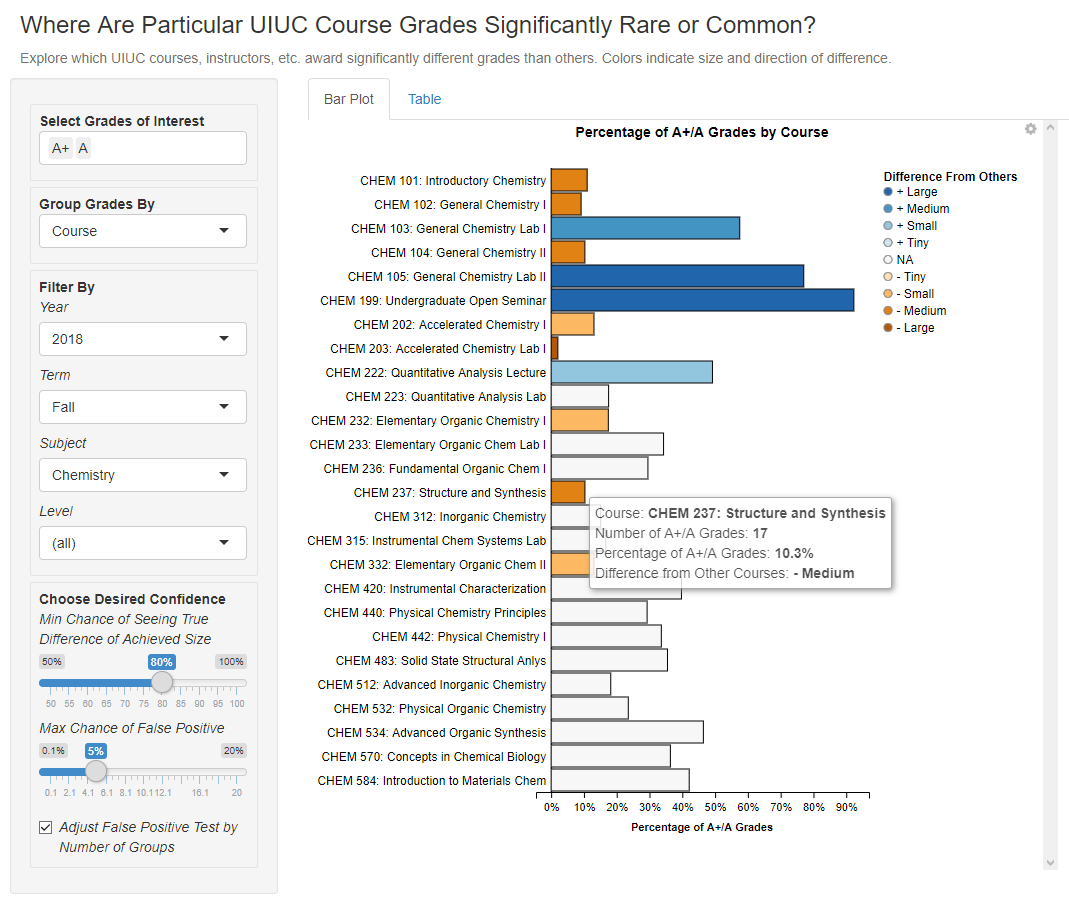
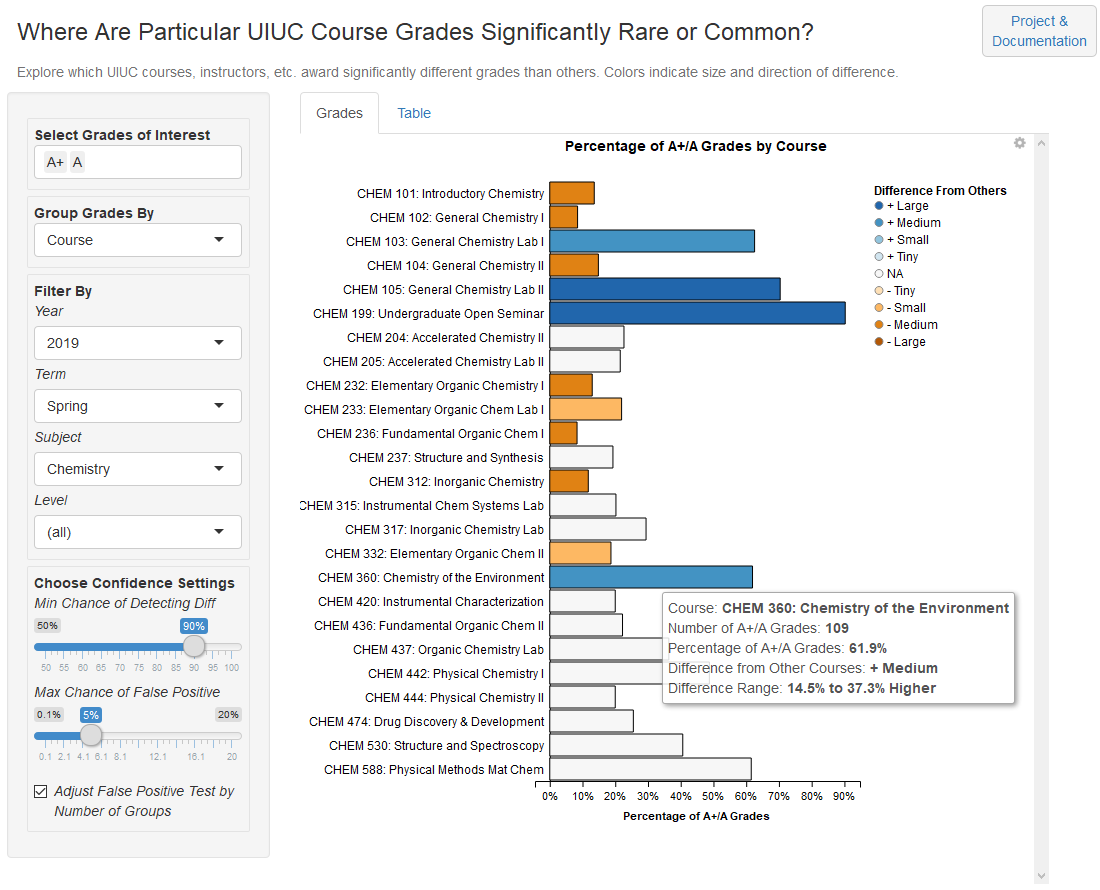
Finishing project documentation.

diff --git a/README.md b/README.md
@@ -1,37 +1,43 @@
 # The BI Guardrails Project
-### *Using inferential statistics to make charts more useful*
+### *Harnessing inferential statistics to make charts more useful*
 Part 1 of ?: Percentage Bar Charts
 ----------------------------------
 
-[Interact](https://tuohybuoy.shinyapps.io/uiuc_grade_explorer_with_inferential_guardrails) with the current application at rstudio.shinyapps.io.
+[Interact](https://tuohybuoy.shinyapps.io/uiuc_grade_explorer_with_inferential_guardrails) with the current application at [rstudio.shinyapps.io](https://rstudio.shinyapps.io).
 
 ## Intro
 
 ### Why This Project?
 
-The strength of business intelligence, or BI, can also be its weakness. By themselves, charts and visuals are powerful tools for summarizing large datasets for a nontechnical audience. However, the same audience is often left to determine what conclusions to draw from the visual. Conclusions are often based on gut feelings. Arguably, this is the opposite of the desired goal when using data to aid decisionmaking.
+The strength of charts can also be their weakness. By themselves, charts are powerful tools for summarizing large amounts of data. However, the audience is often left to determine what conclusions to draw from the chart. This is especially true with exploratory charts, where the designer hasn't stated any conclusions.
 
-For example, take the percentage bar chart. It's a useful tool for comparing proportions between groups of differing size. In an academic setting, it could compare the percentages of As that different instructors award to their students. Take an example where Prof. Richards has 100 students and Dr. Doom has 500:
+With a bar chart, audiences have to decide whether one bar is sufficiently long compared to its neighbors to be "different" from them. This leans heavily on the audience's gut feelings. Arguably, this is the opposite of the desired goal when using data to aid decisionmaking.
+
+Take the percentage bar chart. It's a useful tool for comparing proportions between groups of differing size. Here's an example where Prof. Richards gives As to 50 out of 100 students, and Dr. Doom gives As to 150 out of 500 students:
 
 ![Richards vs. Doom A Grades Awarded](common/images/Richards_vs_Doom_Grades.png)
 
-Here, it looks obvious that Prof. Richards is more likely to award As. 50% is certainly a higher proportion than 30%. But what if Richards only has ten students, or six? The chart doesn't help determine whether the difference is still meaningful, and in fact actively impedes efforts to determine this by looking exactly like the 100-vs.-500 case.
+It looks obvious that Prof. Richards is more likely to award As. 50% is certainly a higher proportion than 30%. But what if Richards only has ten students, or six? The chart doesn't help determine whether "50% vs. 30%" is still likely to be meaningful, or just a product of random chance. In fact, the chart actively impedes efforts to determine this by looking exactly like the case with 100 students vs. 500:
+
+![Richards vs. Doom A Grades Awarded](common/images/Richards_vs_Doom_Grades.png)
 
 Workarounds exist, such as shading or setting bar thickness by the number of students for each instructor. However, they don't address the core issue that it's up to viewers to determine what differences are likely to be real.
 
 ### Inferential Statistics to the Rescue
 
-Statistical techniques can readily provide ways to pinpoint differences that are more likely to be meaningful. Those same techniques can give insight into how big or small a difference is likely to be. Even better, they allow a viewer to choose precise cutoffs for the level of certainty they desire.
+Statistical techniques can help pinpoint differences that are more likely to be meaningful. Those same techniques can give insight into how big or small a difference is likely to be. Even better, they allow a viewer to choose cutoffs for the level of certainty they desire.
 
-This Percentage Bar Chart tool uses four closely-related attributes to make this determination:
+This Percentage Bar Chart Guardrails tool uses four closely-related attributes to make this determination:
 * *Sample size:* how many students does an instructor or group of instructors have?
 * *Effect size:* how big or small is the difference between one instructor and others?
-* *Significance:* how likely is the difference to be a false positive? The most typical cutoff for this likelihood is 5%.
-* *Power:* if the "true" effect size is what the chart shows, how likely is it that we could correctly identify it? Typical cutoffs are 80%, 90% and 95%.
+* *Significance:* how likely is the difference to be a false positive? The typically-applied cutoff is 5%.
+* *Power:* if an instructor has N students, what's the minimum chance that we could successfully identify a real difference from the other instructors, where the difference is a certain size? Typical cutoffs are 80%, 90% and 95%.
 
 A rule of thumb: the smaller the difference between instructors, the more grades are required to identify the difference with a high degree of certainty.
 
-Starting with the percentages and sample sizes, the application calculates apparent differences in the form of effect sizes. Finally, the application highlights only those differences that meet selected thresholds for statistical significance and power.
+Starting with the percentages and sample sizes, the Percentage Bar Chart Guardrails tool calculates apparent differences in the form of effect sizes. Finally, the application highlights only those differences that meet selected thresholds for statistical significance and power -- that is, those differences that are at least as likely to be real as the cutoffs demand.
+
+We should note that statistical significance isn't the same as real-world significance. A 1% difference in grades awarded might be real, but it's probably not meaningful. However, the tool labels differences as Large, Medium, Small or Tiny to help the viewer draw real-world conclusions. In addition, tooltips show the range that the "real" difference is likely to fall within. 
 
 For more details about the statistical tests employed, see [The Statistics](#the-statistics) below.
 
@@ -39,17 +45,58 @@ A simple version of such a chart might look like this:
 
 ![Richards vs. Doom A Grades Awarded, with Effect Size](common/images/Richards_vs_Doom_Grades_with_Effect_Size.png)
 
-Note: the Percentage Bar Chart tool can compare dozens or hundreds of instructors or courses. This makes it potentially useful even for subject matter experts, who might otherwise be hard-pressed to digest this volume of information.
+Past this start point, the Percentage Bar Chart tool can compare dozens or hundreds of instructors or courses. This makes it potentially useful even for subject matter experts, who might otherwise be hard-pressed to digest this volume of information.
+
+## The Tool
+
+### Intro
+
+Here's what the Percentage Bar Chart tool looks like:
 
 ![UIUC Grade Explorer with Inferential Guardrails - Start Page](common/images/App_Start_Page.png)
+*Examining differences in As awarded by different Chemistry instructors in Spring 2019*
 
-## The Pieces
+The tool uses a single dataset: the [University of Illinois GPA Dataset](https://github.com/wadefagen/datasets/tree/master/gpa) compiled by Prof. Wade Fagen-Ulmschneider, used here with his kind permission.
 
-## The Dataset
+The data summarizes grades awarded at the Champaign-Urbana campus of the University of Illinois from spring semester 2010 through summer 2019. Please see the end of this document for more information and descriptive statistics.
 
-For a demonstration, the application uses the [University of Illinois GPA Dataset](https://github.com/wadefagen/datasets/tree/master/gpa) compiled by Prof. Wade Fagen-Ulmschneider, and used here with his kind permission.
+### Use Cases
 
-The data summarizes grades awarded at the Champaign-Urbana campus of the University of Illinois from 2010 through 2018. Please see the end of this document for information and descriptive statistics.
+The tool can help investigate questions like these:
+* Does Sociology award significantly more As than other subjects, and does Chemistry award significantly less?
+* If a subject awards fewer As, does it necessarily award more Ds and Fs?
+* Within Chemistry, do 100-level or 200-level courses award more As than average?
+* Has there been significant grade inflation over time within 100-level Chem courses?
+
+Any Business Intelligence tool can help explore these questions. The Percentage Bar Chart adds value by indicating the size of differences that are likely to be nonrandom within a specified range of confidence. This helps users focus on the differences that are more likely to be meaningful.
+
+### Steps
+
+1) First select the course grades to explore. Grades range from A+ to F, with "W" indicating course withdrawal.
+
+![Select Grades of Interest](common/images/Select_Grades_of_Interest.png)
+
+2) Choose how to group the grades: by instructor, course, subject, level, or year. For example, choose "Primary Instructor" to compare individual instructors.
+
+![Group Grades By](common/images/Group_Grades_By.png)
+
+3) Filter the results to focus on particular years, terms, subjects or course levels. For example, choose Subject "Chemistry" or "Sociology" to focus on those topics.
+
+![Filter Grades By](common/images/Filter_Grades_By.png)
+
+4) Choose *Min Chance of Detecting Diff*, the minimum desired confidence for detecting "true" grade differences. This corresponds to the notion of statistical power described above. Typical confidence cutoffs are 80%, 90% and 95%. The higher the cutoff, the more the tool focuses on larger groupings and larger differences that are highly likely to be real.
+
+![Select Min Chance of Detecting Diff](common/images/Select_Min_Chance_of_Detecting_Diff.png)
+
+5) Choose *Max Chance of False Positive*, the maximum likelihood that a given difference is due to random chance when a "true" difference does not exist. This corresponds to the notion of statistical significance. The typical cutoff is 5%, and often lower. The lower the significance cutoff, the more the tool focuses on larger groupings and larger differences that are less likely to be random.
+
+![Select Max Chance of False Positive](common/images/Select_Max_Chance_of_False_Positive.png)
+
+Normally, leave the *Adjust False Positive Test by Number of Groups* box checked. This adjusts the significance cutoff downward according to the number of groups (courses/instructors/etc.) in the chart. The goal is to reduce the chance that any of the multiple comparisons produces a false positive.
+
+6) View the results. The darker orange a group is, the less likely it is to award the selected grades than other groups in the chart. Blue indicates higher likelihood of awarding the selected grades.
+
+Hover over each group to view its details: the number and percent of selected grades awarded, plus the size and range of any detected difference from other groups in the chart.
 
 ## Usage
 
